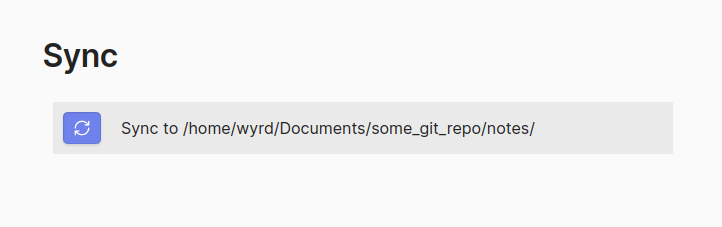
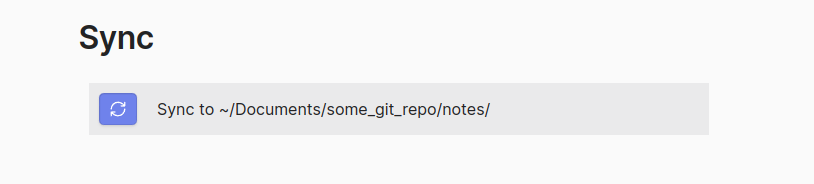
Environment variable and comment support

Changed region(s): [[0.0609, 0.4891, 0.7618, 0.7065], [0.0609, 0.1359, 0.2133, 0.3261]]

diff --git a/main.ts b/main.ts
@@ -1,6 +1,7 @@
 import { ButtonComponent, Modal, Notice, Plugin, App, TFile, TAbstractFile, TFolder, PluginSettingTab, Setting } from "obsidian";
 import { accessSync, existsSync, lstatSync, mkdirSync, statSync, writeFileSync } from "fs";
 import { constants } from "fs/promises";
+import { join as pathjoin, normalize as pathnormalize } from "path";
 
 interface ObsidianProjectSyncSettings {
 	followSymlinksDir: boolean;
@@ -14,22 +15,45 @@ const DEFAULT_SETTINGS: ObsidianProjectSyncSettings = {
 
 class ProjsyncBlock {
 	path: string;
+	prettypath: string;
 	exclude: Array<RegExp>;
 
 	constructor(source: string, followSymlinksDir: boolean) {
 		this.exclude = Array<RegExp>();
+		let path_found = false;
+
+		// Each Line
 		const rows = source.split("\n").filter((row) => row.length > 0);
 		for (let i=0; i < rows.length; i++) {
-			const words = rows[i].split(" ");
+
+			// Remove comments
+			let row = this.processcomments(rows[i]).trim();
+			if (row === ''){
+				continue;
+			}
+
+			// Each word in line
+			const words = row.split(" ");
 			if (words.length > 0) {
 				switch (words[0]) {
 					case "path":
-						let path = words.slice(1).join('');
+						if (path_found) {
+							throw SyntaxError("Only one path keyword allowed per block.");
+						}
+
+						// Prettify path
+						let path = words.slice(1).join(' ');
+						path = pathnormalize(path);
+						this.prettypath = path;
+
+						// Check if path is valid
+						path = this.processenvs(path);
 						this.path = this.pathcheck(path, followSymlinksDir);
+						path_found = true;
 						break;
-					
+
 					case "exclude":
-						let excludePathStr = words.slice(1).join('');
+						let excludePathStr = words.slice(1).join(' ');
 						if (excludePathStr.length == 0) { break; }
 						let excludePath = new RegExp(excludePathStr);
 						if (!this.exclude.includes(excludePath)) { this.exclude.push(excludePath); }
@@ -45,6 +69,33 @@ class ProjsyncBlock {
 		if (this.path == undefined) { throw SyntaxError("Path value was not set."); };
 	}
 
+	// Remove comments from line
+	processcomments(path: string) : string {
+		let reg = RegExp('#.*$');
+		return path.replace(reg, '');
+	}
+
+	// Replace common env variables
+	processenvs(path: string) : string {
+		let envs : { [key: string]: any }= {
+			"$HOME" : process.env.HOME,
+			"~" : process.env.HOME
+		};
+
+		for (let key in envs) {
+			let val = envs[key];
+			if (val === undefined){
+				continue;
+			}
+			else {
+				path = path.replace(key, val);
+			}
+		}
+
+		return path;
+	}
+
+	// Validate path exists, optionally isn't symlink, and we can access it.
 	pathcheck(path: string, followSymlinksDir: boolean) : string {
 		if (path.length == 0) { throw TypeError("Path is empty."); }
 		if (!existsSync(path)) { throw TypeError("Path does not exist."); }
@@ -73,28 +124,31 @@ export default class ObsidianProjectSync extends Plugin {
 	settings: ObsidianProjectSyncSettings;
 
 	async onload() {
-
 		await this.loadSettings();
 
+		// codeblock processor
 		this.registerMarkdownCodeBlockProcessor("projsync", (source, el, ctx) => {
 			try {
 				const psb = new ProjsyncBlock(source, this.settings.followSymlinksDir);
 
+				// Buttons and text
 				var buttonDiv = el.createEl("div", { cls: "project-sync-button-div"});
 				var button = new ButtonComponent(buttonDiv);
-				buttonDiv.createEl("div", {text: `Sync to ${psb.path}`, cls: "project-sync-button-text"});
+				buttonDiv.createEl("div", {text: `Sync to ${psb.prettypath}`, cls: "project-sync-button-text"});
 				this.setButtonIcon(button, "sync", "project-sync-button-button");
 				button.setTooltip("Sync to filesystem", {delay: 0, placement: 'bottom'});
 
+				// Activate spinner, sync to path, deactivate spinner, activate checkmark, reset
 				button.onClick(async(evt: MouseEvent) => {
 					button.buttonEl.children[0].addClass("project-sync-button-icon-spin");
-					await this.sync(psb, button);
+					await this.sync(psb);
 					button.buttonEl.children[0].removeClass("project-sync-button-icon-spin");
 					this.setButtonIcon(button, "check", "project-sync-button-button-success");
 					await this.delay(2000);
 					button.buttonEl.removeClass("project-sync-button-button-success");
 					this.setButtonIcon(button, "sync", "project-sync-button-button");
 				})
+			// Catch errors and display them in codeblock
 			} catch(e: unknown) {
 				const displayError = el.createEl("div", { cls: "project-sync-displayerror-inline" });
 				displayError.createEl("div", {text: `${(e as Error).name}`, cls: "project-sync-displayerror-inline-name"});
@@ -117,12 +171,11 @@ export default class ObsidianProjectSync extends Plugin {
 
 	}
 
-	async sync(psb: ProjsyncBlock, button?: ButtonComponent){
+	// Sync vault folder(s) to specified path
+	async sync(psb: ProjsyncBlock){
 		try{
-			let syncPath: string;
-			if (!psb.path.endsWith('/')) { syncPath = psb.path + '/'; }
-			else { syncPath = psb.path; }
 
+			// Get parent folder of note that contains projsync block
 			const active_file = this.app.workspace.getActiveFile();
 			if (active_file === null){
 				throw TypeError("No active file...");
@@ -131,7 +184,8 @@ export default class ObsidianProjectSync extends Plugin {
 			if (super_folder === null){
 				throw TypeError("No super folder....");
 			}
-			
+
+			// Get all files and folders except parent folder
 			let files: Array<TAbstractFile>;
 			if (super_folder.path === "/")
 				files = this.app.vault.getAllLoadedFiles().filter(file => {return file.path !== "/"});
@@ -151,7 +205,7 @@ export default class ObsidianProjectSync extends Plugin {
 			// First pass make directory structure
 			for (let i=0; i<files.length; i++) {
 				if (files[i] instanceof TFolder){
-					let syncDestDir: string = syncPath + (files[i].path.replace(super_folder.path+'/', ""));
+					let syncDestDir: string = pathjoin(psb.path, files[i].path.replace(super_folder.path+'/', ''));
 					if ( this.checkDir(syncDestDir) === false) {
 						mkdirSync(syncDestDir, {recursive: true});
 					}
@@ -171,13 +225,14 @@ export default class ObsidianProjectSync extends Plugin {
 						if (skip_file === true) { continue; }
 
 						// Check to see we can write to the file
-						let syncDestFile: string = syncPath + (files[i].path.replace(super_folder.path+'/', ""));
+						let syncDestFile: string = pathjoin(psb.path, files[i].path.replace(super_folder.path+'/', ''));
 						this.checkFile(syncDestFile);
 
 						// Get file content and write it to the sync folder
 						let fileContent: ArrayBuffer = await this.app.vault.readBinary(files[i] as TFile);
 						writeFileSync(syncDestFile, new Uint8Array(fileContent));
 					}
+					// Don't abort if a file fails, just alert user
 					catch (e: unknown) {
 						new Notice(`${(e as Error).message}`, 0);
 						continue;
@@ -186,6 +241,7 @@ export default class ObsidianProjectSync extends Plugin {
 			}
 
 		}
+		// Display error
 		catch(e: unknown) {
 			new ErrorModal(this.app, e as Error).open();
 		}
@@ -203,10 +259,11 @@ export default class ObsidianProjectSync extends Plugin {
 		catch { 
 			throw ReferenceError(`Insufficient permission to write to directory at '${dir}'`);
 		}
-		
+
 		return true;
 	}
 
+	// Check if file exists and if it does checks we can write to it
 	checkFile(file: string) {
 		if (file.length === 0) { throw TypeError("Empty string..."); }
 		if (!existsSync(file)) { return false; }
@@ -222,18 +279,21 @@ export default class ObsidianProjectSync extends Plugin {
 		return true;
 	}
 
+	// Sets button icon and css class
 	setButtonIcon(button: ButtonComponent, icon: string, classTo: string) {
 		button.setIcon(icon);
 		button.setClass(classTo);
 		button.setCta();
 	}
 
+	// Delay
 	async delay(ms: number) {
 		return new Promise( resolve => setTimeout(resolve, ms) );
 	}
 
 }
 
+// Helper class to create ok looking modal
 class ErrorModal extends Modal {
 	exp: Error;
 	

diff --git a/README.md b/README.md
@@ -10,9 +10,16 @@ Any number of either arguments is allowed, but only the last `path` keyword is u
 
 ~~~~
 ```projsync
-path /home/wyrd/Documents/some_git_repo/notes/
+# Set path to sync to
+path ~/Documents/some_git_repo/notes/
+
+# Exclude the file exclude_me.md
 exclude exclude_me.md
+
+# Exclude any file ending in '.json'
 exclude .json$
+
+# Exclude any file starting with 'test'
 exclude ^test
 ```
 ~~~~
